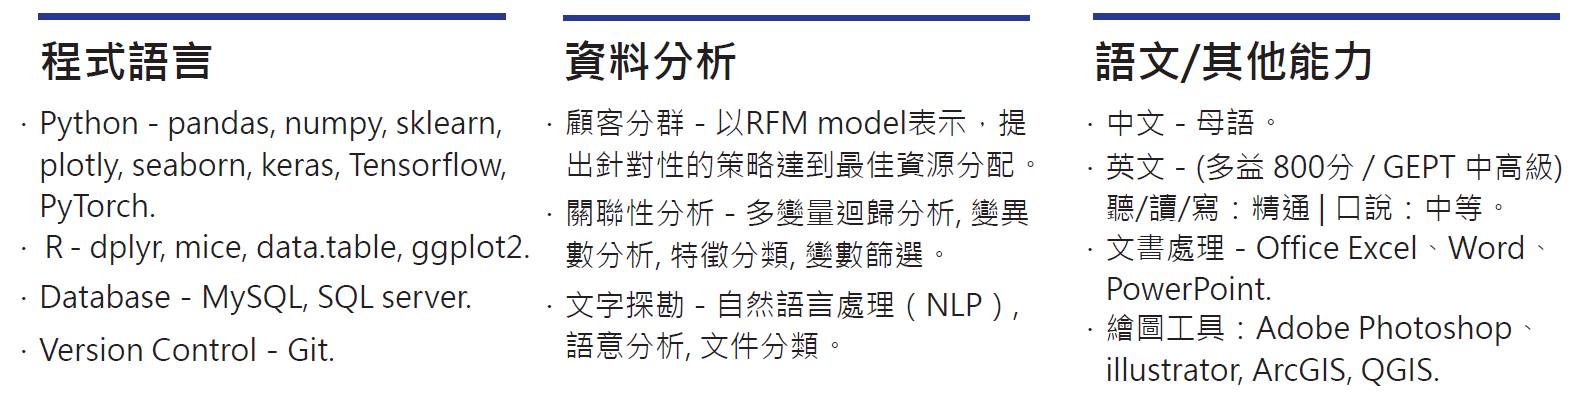
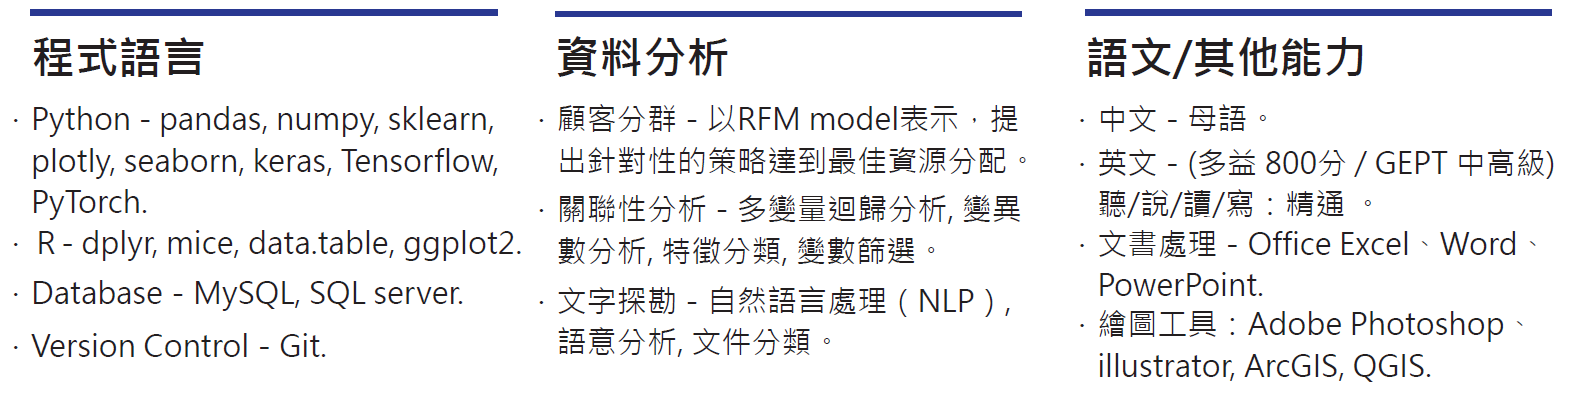
update content

diff --git a/pages/about-me.html b/pages/about-me.html
@@ -116,11 +116,11 @@
 b02612048@g.ntu.edu.tw</br></p>
 <p></br></p>
 <h1><font face="微軟正黑體" size = 6 > <strong>專業技能</strong> </font></h1>
-<p><img align = "left" witdh = 1000 src= "../extra/skill01.png"></p>
+<p><img align = "left" witdh = 1200 src= "../extra/skill01.png"></p>
 <p></br></br></br></br></br></br></br></br></p>
 <h1><font face="微軟正黑體" size = 6 > <strong>工作經歷</strong> </font></h1>
 <p><img width = 60 height = 210 align="left" src="../extra/point.png"/>
-<font face="微軟正黑體" size = 5 > 兼任研究助理　國立臺灣師範大學，2017 年 8 月 - 2018 年 8 月 </font></br></p>
+<font face="微軟正黑體" size = 5 > 兼任研究助理　國立臺灣師範大學，2017 年 8 月 - 2018 年 7 月 </font></br></p>
 <p>大四下<font color = #FF4500 ><strong>因為統計分析能力受到教授賞識，主動邀約我</strong></font>加入遺傳演化實驗室，<font color = #FF4500 ><strong>協助教授投稿至領域排名前25%的科學期刊</strong></font>。</br>
  詳細工作項目如下：</p>
 <ul>
